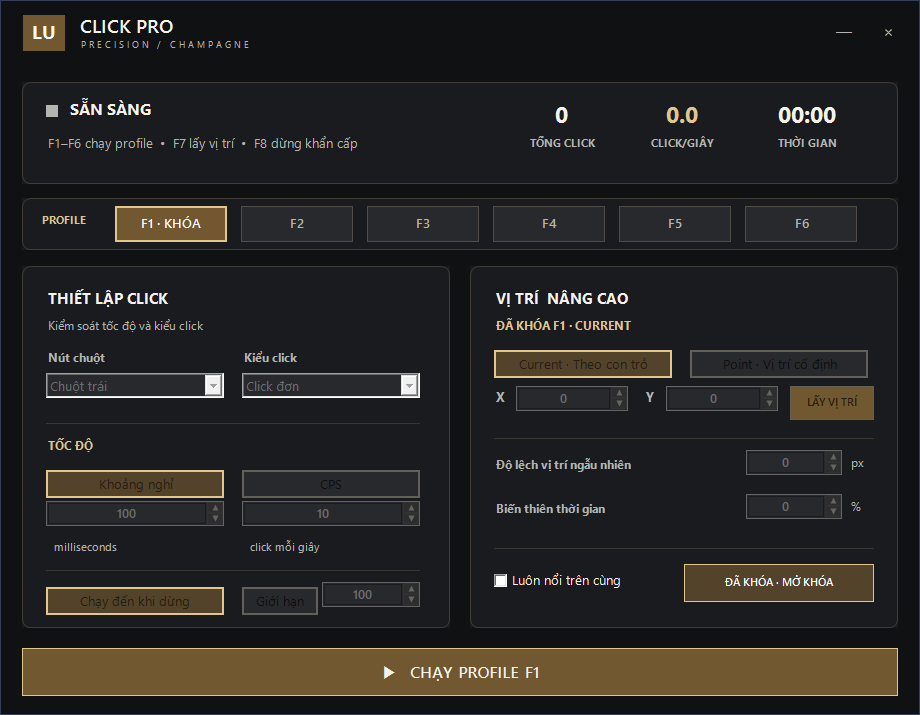
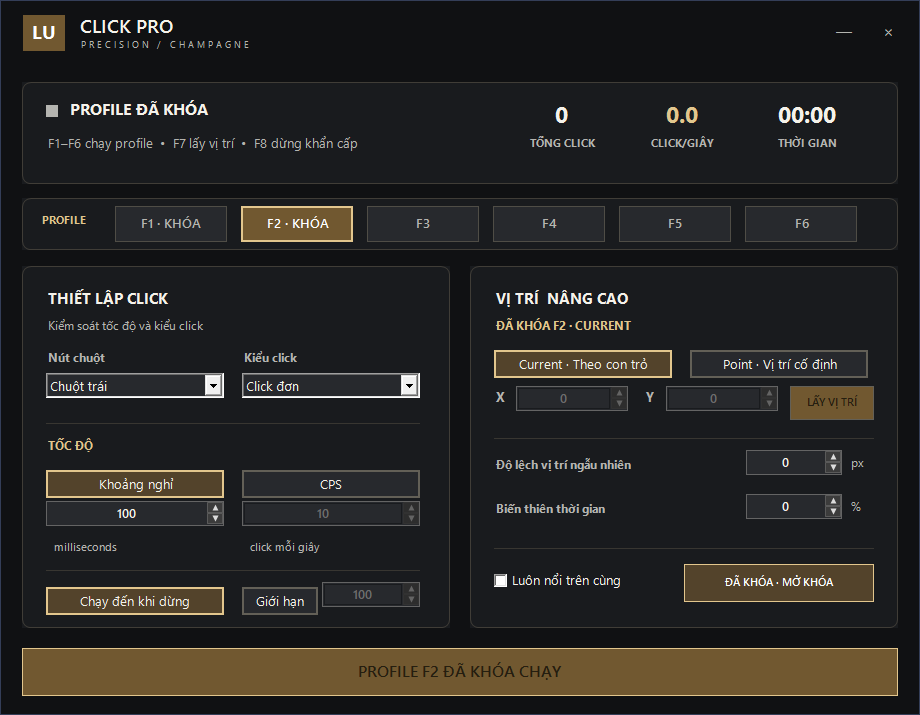
Correct profile lock to prevent execution (v1.5)

diff --git a/source/Program.cs b/source/Program.cs
@@ -315,7 +315,7 @@ namespace LuClickPro
             topMostCheck.CheckedChanged += delegate { TopMost = topMostCheck.Checked; };
             right.Controls.Add(topMostCheck);
 
-            lockButton = MakeSmallButton("KHÓA CHỈNH SỬA", 214, 298, 190, 38, Purple);
+            lockButton = MakeSmallButton("KHÓA CHẠY PROFILE", 214, 298, 190, 38, Purple);
             lockButton.Click += delegate { ToggleProfileLock(); };
             right.Controls.Add(lockButton);
 
@@ -517,14 +517,14 @@ namespace LuClickPro
         private void UpdateSpeedControls()
         {
             if (intervalBox == null) return;
-            intervalBox.Enabled = intervalRadio.Checked && !profiles[selectedProfile].Locked;
-            cpsBox.Enabled = cpsRadio.Checked && !profiles[selectedProfile].Locked;
+            intervalBox.Enabled = intervalRadio.Checked;
+            cpsBox.Enabled = cpsRadio.Checked;
         }
 
         private void UpdatePositionControls()
         {
             if (xBox == null) return;
-            bool enabled = fixedRadio.Checked && !profiles[selectedProfile].Locked;
+            bool enabled = fixedRadio.Checked;
             xBox.Enabled = enabled;
             yBox.Enabled = enabled;
             captureButton.Enabled = enabled;
@@ -536,6 +536,7 @@ namespace LuClickPro
         {
             SaveCurrentToProfile();
             profiles[selectedProfile].Locked = !profiles[selectedProfile].Locked;
+            if (profiles[selectedProfile].Locked && running) StopClicking(false);
             UpdateLockControls();
             SaveSettings();
         }
@@ -546,19 +547,19 @@ namespace LuClickPro
             bool locked = profiles[selectedProfile].Locked;
             foreach (Control c in new Control[] { buttonBox, clickTypeBox, intervalRadio, cpsRadio,
                 untilStoppedRadio, repeatRadio, cursorRadio, fixedRadio, jitterBox, varianceBox })
-                c.Enabled = !locked;
-            repeatBox.Enabled = !locked && repeatRadio.Checked;
+                c.Enabled = true;
+            repeatBox.Enabled = repeatRadio.Checked;
             UpdateSpeedControls();
             UpdatePositionControls();
-            lockButton.Text = locked ? "ĐÃ KHÓA · MỞ KHÓA" : "KHÓA CHỈNH SỬA";
+            lockButton.Text = locked ? "ĐÃ KHÓA · MỞ KHÓA" : "KHÓA CHẠY PROFILE";
             lockButton.BackColor = locked ? Color.FromArgb(83, 67, 43) : Card2;
             lockButton.FlatAppearance.BorderColor = locked ? Cyan : TextMuted;
+            UpdateRunningUi();
             UpdateProfileButtons();
         }
 
         private void CapturePosition()
         {
-            if (profiles[selectedProfile].Locked) return;
             Point p = Cursor.Position;
             SetNumeric(xBox, p.X);
             SetNumeric(yBox, p.Y);
@@ -573,6 +574,7 @@ namespace LuClickPro
 
         private void StartClicking()
         {
+            if (profiles[selectedProfile].Locked) return;
             if (running) return;
             activeButton = buttonBox.SelectedIndex;
             activeDoubleClick = clickTypeBox.SelectedIndex == 1;
@@ -654,6 +656,7 @@ namespace LuClickPro
                 if (activeDoubleClick && (activeRepeatLimit == 0 || totalClicks < activeRepeatLimit))
                 {
                     Thread.Sleep(Math.Min(80, Math.Max(20, activeBaseInterval / 3)));
+                    if (!running || generation != Thread.VolatileRead(ref runGeneration)) return;
                     PerformMouseClick(activeButton);
                     Interlocked.Increment(ref totalClicks);
                 }
@@ -729,16 +732,20 @@ namespace LuClickPro
 
         private void UpdateRunningUi()
         {
-            statusLabel.Text = running ? "ĐANG CHẠY" : "SẴN SÀNG";
+            bool locked = profiles[selectedProfile].Locked;
+            statusLabel.Text = running ? "ĐANG CHẠY" : (locked ? "PROFILE ĐÃ KHÓA" : "SẴN SÀNG");
             statusDot.BackColor = running ? Green : TextMuted;
             startButton.Text = running ? "■   DỪNG PROFILE F" + (selectedProfile + 1) : "▶   CHẠY PROFILE F" + (selectedProfile + 1);
             startButton.BackColor = running ? Red : Purple;
+            startButton.Enabled = !locked || running;
+            if (locked && !running) startButton.Text = "PROFILE F" + (selectedProfile + 1) + " ĐÃ KHÓA CHẠY";
             UpdateProfileButtons();
         }
 
         private void SelectProfile(int index, bool runFromHotkey)
         {
             if (index < 0 || index >= profiles.Length) return;
+            if (runFromHotkey && profiles[index].Locked) return;
             if (runFromHotkey && running && selectedProfile == index)
             {
                 StopClicking(false);

diff --git a/README.md b/README.md
@@ -21,7 +21,7 @@ Yêu cầu Windows 10/11 64-bit và .NET Framework 4.x. Không cần cài SDK đ
 Chọn ô profile để chỉnh thiết lập. Current click theo con trỏ; Point click tại tọa độ cố định.
 Chỉ một profile chạy tại một thời điểm. Khi nhấn phím của profile khác, ứng dụng chuyển sang profile đó.
 
-**Khóa profile (v1.4):** chọn profile rồi bấm **KHÓA CHỈNH SỬA**. Các thông số và việc lấy tọa độ bằng F7 sẽ bị khóa. F1–F6 vẫn chạy/dừng bình thường. Bấm **ĐÃ KHÓA · MỞ KHÓA** để chỉnh lại. Trạng thái khóa được lưu riêng cho từng profile ngay khi bật/tắt khóa.
+**Khóa chạy profile (v1.5):** chọn profile rồi bấm **KHÓA CHẠY PROFILE**. Profile đó không chạy bằng phím F, nút chạy hoặc menu khay hệ thống. Nhấn nhầm phím của profile bị khóa không ảnh hưởng profile khác đang chạy. Khóa profile đang chạy sẽ dừng nó. Các thông số và F7 vẫn chỉnh được. Bấm **ĐÃ KHÓA · MỞ KHÓA** để cho phép chạy lại. Trạng thái khóa lưu riêng và tự lưu ngay khi thay đổi.
 
 Cấu hình lưu khi thoát tại `%APPDATA%\LuClickPro\settings.ini`. File cấu hình cá nhân không nằm trong repo.
 Tốc độ thực tế phụ thuộc Windows và ứng dụng nhận click. EXE chưa ký số.
